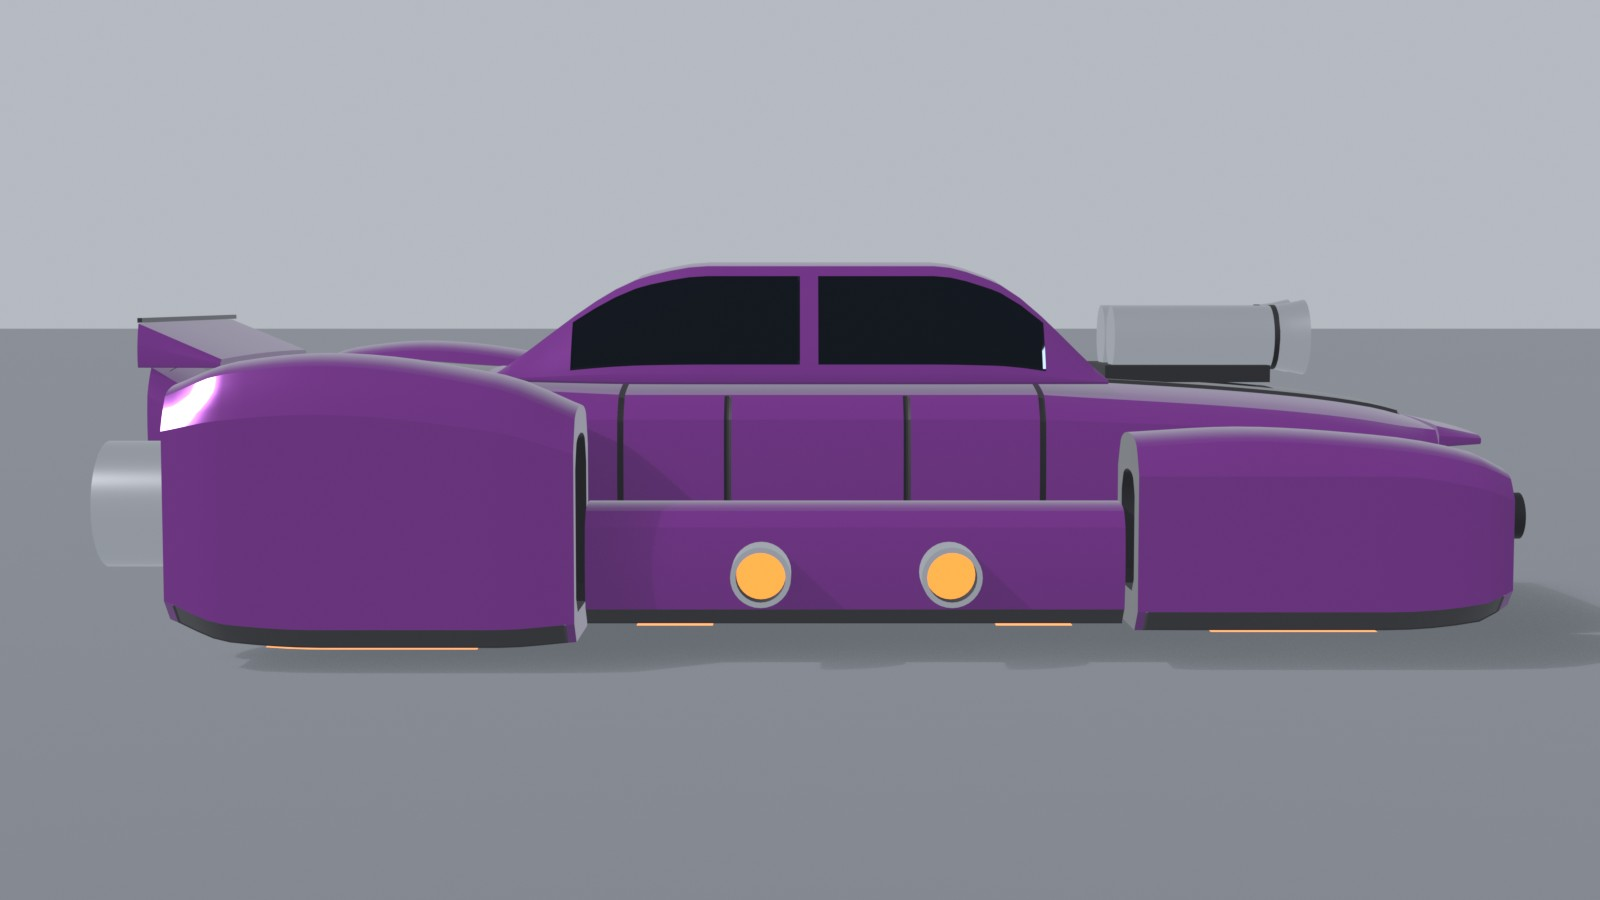
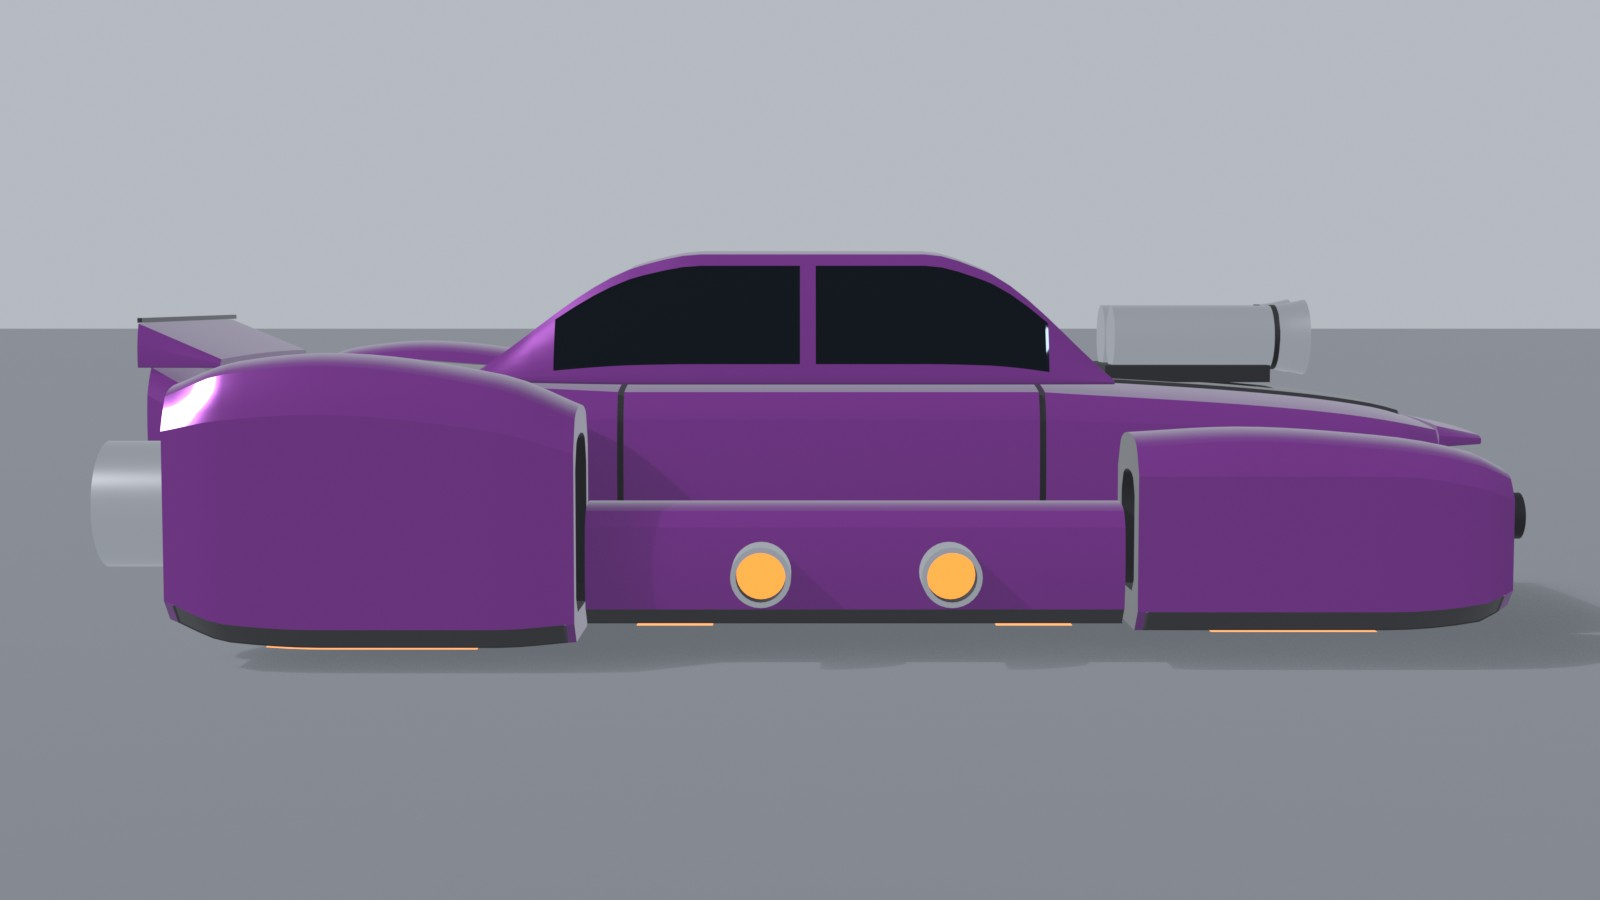
mesh: Brawler pass 5: wider, longer, taller cabin; door lines removed; less body tumblehome in the frame

Changed region(s): [[0.4062, 0.4044, 0.8438, 0.56], [0.3125, 0.28, 0.6875, 0.4356]]

diff --git a/scripts/exotic_category/categories/muscle/mesh/muscle_cars.py b/scripts/exotic_category/categories/muscle/mesh/muscle_cars.py
@@ -77,8 +77,8 @@ def flange(z0, z1, y0, y1):
         "detail", mirror=True)
 
 
-def tub(doors=(-2.1, 1.3)):
-    """The body between the two seams, with door shut lines. Every cockpit uses the same section."""
+def tub(doors=()):
+    """The body between the two seams. Every cockpit uses the same section. doors: optional shut lines."""
     regs = [R(Z_F + GAP, Z_R - GAP, 0.0, 2.0, "secondary", 0.02)]
     regs += [R(z, z + 0.14, 2.05, 3.95, "detail", 0.03) for z in doors]
     Hull([(Z_F, SEAM_F), (Z_R, SEAM_R)]).build("tub", "primary", t0=Z_F + GAP, t1=Z_R - GAP, regions=regs)
@@ -88,21 +88,22 @@ def tub(doors=(-2.1, 1.3)):
 # ---------------------------------------------------------------- car F: Brawler (muscle_06)
 
 def f_cockpit():
-    """Low glasshouse: raked windscreen, long doors, a fast rear window down to a short deck."""
+    """Wide, long glasshouse nearly the full width of the body: raked windscreen, long roof, a fast rear
+    window down to a short deck."""
     K.begin("F", "COCKPIT")
     tub()
-    gh = Hull([(-5.9, dict(w=3.42, yb=3.1, yt=3.2, ys=3.14, tum=0.15, drop=0.02)),
-               (-3.7, dict(w=3.5, yt=5.2, tum=0.9)),
-               (-2.6, dict(yt=5.48)), (1.8, dict(yt=5.48)),
-               (2.9, dict(w=3.5, yt=5.3, tum=0.95)),
-               (5.9, dict(w=3.3, yb=3.15, yt=3.3, ys=3.2, tum=0.25, drop=0.03))],
-              w=3.55, yb=3.1, ys=3.3, rb=0.04, tum=0.95, drop=0.12, wcf=0.78, d2=0.03, crown=0.04)
+    gh = Hull([(-6.0, dict(w=3.55, yb=3.1, yt=3.2, ys=3.14, tum=0.12, drop=0.02)),
+               (-3.5, dict(w=3.66, yt=5.4, tum=0.62)),
+               (-2.4, dict(yt=5.7)), (1.9, dict(yt=5.7)),
+               (3.0, dict(w=3.66, yt=5.5, tum=0.68)),
+               (6.3, dict(w=3.5, yb=3.15, yt=3.3, ys=3.2, tum=0.2, drop=0.03))],
+              w=3.68, yb=3.1, ys=3.3, rb=0.04, tum=0.65, drop=0.12, wcf=0.8, d2=0.03, crown=0.04)
     gh.build("cabin", "primary", regions=[
-        R(-5.65, -3.85, 4.12, 6.0, "glass", 0.03),    # windscreen
-        R(-4.7, -0.35, 3.08, 3.9, "glass", 0.03),     # door glass, follows the screen pillar
-        R(0.0, 4.4, 3.08, 3.9, "glass", 0.03),        # quarter glass, follows the roof down
-        R(3.15, 5.6, 4.15, 6.0, "glass", 0.03),       # rear window
-        R(-3.6, 2.9, 5.1, 6.0, "secondary", 0.02)])   # roof stripe
+        R(-5.75, -3.65, 4.12, 6.0, "glass", 0.03),    # windscreen
+        R(-4.75, -0.3, 3.08, 3.9, "glass", 0.03),     # door glass, follows the screen pillar
+        R(0.0, 4.7, 3.08, 3.9, "glass", 0.03),        # quarter glass, follows the roof down
+        R(3.25, 6.0, 4.15, 6.0, "glass", 0.03),       # rear window
+        R(-3.4, 3.0, 5.1, 6.0, "secondary", 0.02)])   # roof stripe
 
 
 def f_nose():

diff --git a/scripts/exotic_category/categories/muscle/mesh/musclekit.py b/scripts/exotic_category/categories/muscle/mesh/musclekit.py
@@ -65,7 +65,7 @@ GAP = K.GAP
 
 # Body seams: fixed Hull sections shared by every cockpit, nose and tail. Round 2 of the frame (2026-10-04):
 # taller, with real tumblehome and crown, so the body reads as a car and not a slab.
-SEAM_F = dict(cx=0.0, w=BODY_W, yb=-0.4, yt=3.2, rb=0.5, ys=2.45, tum=0.42, drop=0.3, wcf=0.72, d2=0.06,
+SEAM_F = dict(cx=0.0, w=BODY_W, yb=-0.4, yt=3.2, rb=0.5, ys=2.45, tum=0.25, drop=0.24, wcf=0.72, d2=0.06,
               crown=0.05, cs=0.035)
 SEAM_R = dict(SEAM_F)
 # Pod end faces: the back of a front pod and the front of a rear pod start from these, so a sill unit
@@ -78,7 +78,7 @@ POD_FZ, POD_RZ = -6.0, 4.0    # where those faces sit
 # Boxes are (|x| min, |x| max, y min, y max, z min, z max).
 K.ENV = {
     # tub, then the greenhouse (it laps onto the cowl and the deck)
-    "COCKPIT": [(0, 4.0, -0.6, 3.3, -4.7, 3.5), (0, 3.8, 2.9, 6.1, -6.1, 6.6)],
+    "COCKPIT": [(0, 4.0, -0.6, 3.3, -4.7, 3.5), (0, 3.95, 2.9, 6.2, -6.2, 6.7)],
     # body, chin and splitter zone, bonnet turbine zone
     "NOSE": [(0, 3.95, -0.6, 3.4, -13.4, -4.5), (0, 3.95, -1.0, 0.6, -13.9, -10.5), (0, 2.2, 3.0, 5.2, -11.0, -5.2)],
     # body, bed and buttress zone above the deck, diffuser zone
